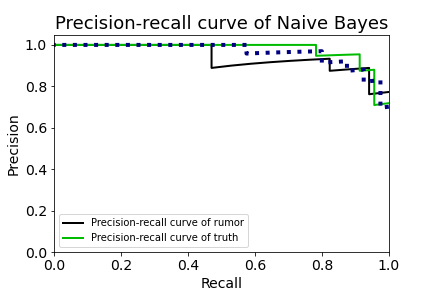
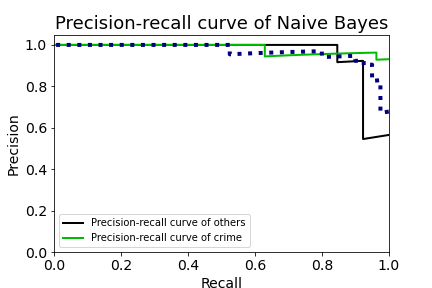
GITHUB-UPLOAD:DATE-2022-10-13-TIME-13-55-45

Changed region(s): [[0.1204, 0.125, 0.9028, 0.4688], [0.4815, 0.75, 0.6019, 0.8438], [0.8426, 0.4688, 0.9028, 0.5]]

diff --git a/501-project-website/pages/Naive-Bayes/naive-bayes.html b/501-project-website/pages/Naive-Bayes/naive-bayes.html
@@ -72,7 +72,7 @@
         <div class="bayes_box2">
         
             <p class = bayes_caption2>
-              According to the precision recall curve, it is easier for model to detect truth, while it is relatively hard to tell rumor from truth. This means the model is not applicable in practical use.
+              According to the precision recall curve, it is easier for model to detect crime reports from tweets that include the key word break in but non-related to car breakin crime. This means the model is applicable in practical use to detecet whether a tweets include key words like car break-in are crime report or not.
             </p>
           <img src="../../images/PR_curve_naive_bayes.png" class="bayes_pic2">
           </img>
@@ -99,10 +99,10 @@
             Modeled by R
           </p>
           <p style="font-size: 50px; font-weight:bold;margin-top:10px;padding-top: 0px;padding-left:80px;margin:0px">
-            Rumor Detection Based on Tweet Performance and Account Character
+            Value lost Detection Based on Classification features
           </p>
           <p style="font-size: 18px; font-weight:bold;margin-bottom: 0px;padding-left:80px;width: 1400px;margin-top: 0px;">
-            The model is built with tweets performance and account features. A naive bayes model was built by these continuous variables.
+            The model is built with four classification features, including days of the week, police distric, self report or not, and car locked or not. A naive bayes model was built by these continuous variables.
           </p>
         </div>
 
@@ -111,14 +111,14 @@
           <img src="../../images/relationship_lock_and_lost.png" class="bayes_pic1">
           </img>
           <p class = bayes_caption1>
-            According to the correlation graph, friends count and favourite count is related to each other, which is consisitent with intuition.
+            The label is created by labeling different case reported by the value of good they lost. According to the frequency plot, locked car were tend to lose more valueable goods compare to others.
           </p>
           </div>
           <!--the following div is the second box -->
           <div class="bayes_box2">
           
               <p class = bayes_caption2>
-                According to the confusion matrix, this model performs better than the previous one. The number of true positive is high and the number of false negative is 0,meaning it has low error rate.
+                According to the confusion matrix, this model performs better than the previous one. The number of true positive and true negative is high and the number of false negative is 0,meaning it has low error rate.
               </p>
             <img src="../../images/CM_Carbreakins.png" class="bayes_pic2">
             </img>
@@ -138,7 +138,8 @@
               Conclusion
             </h1>
             <p style="font-size: 25px;margin-bottom: 0px;margin-top: 0px;">
-              The model based on account features and tweet performance is better than the model based on tweet text, this means that to detect whether a sentence is a rumor, it is hard to judge according to its content. However, it is more effective to make a decision based on the account.
+              The model based on key words and texts is more practical compared to the classification features by police districs and others desipte a slightly lower accuracy. However, these classification feature,
+              whether the car is locked or not, the crime is self reported compared to police report does provide an accurate predcition of the value lost. 
             </p>
           </div>
         </div>
